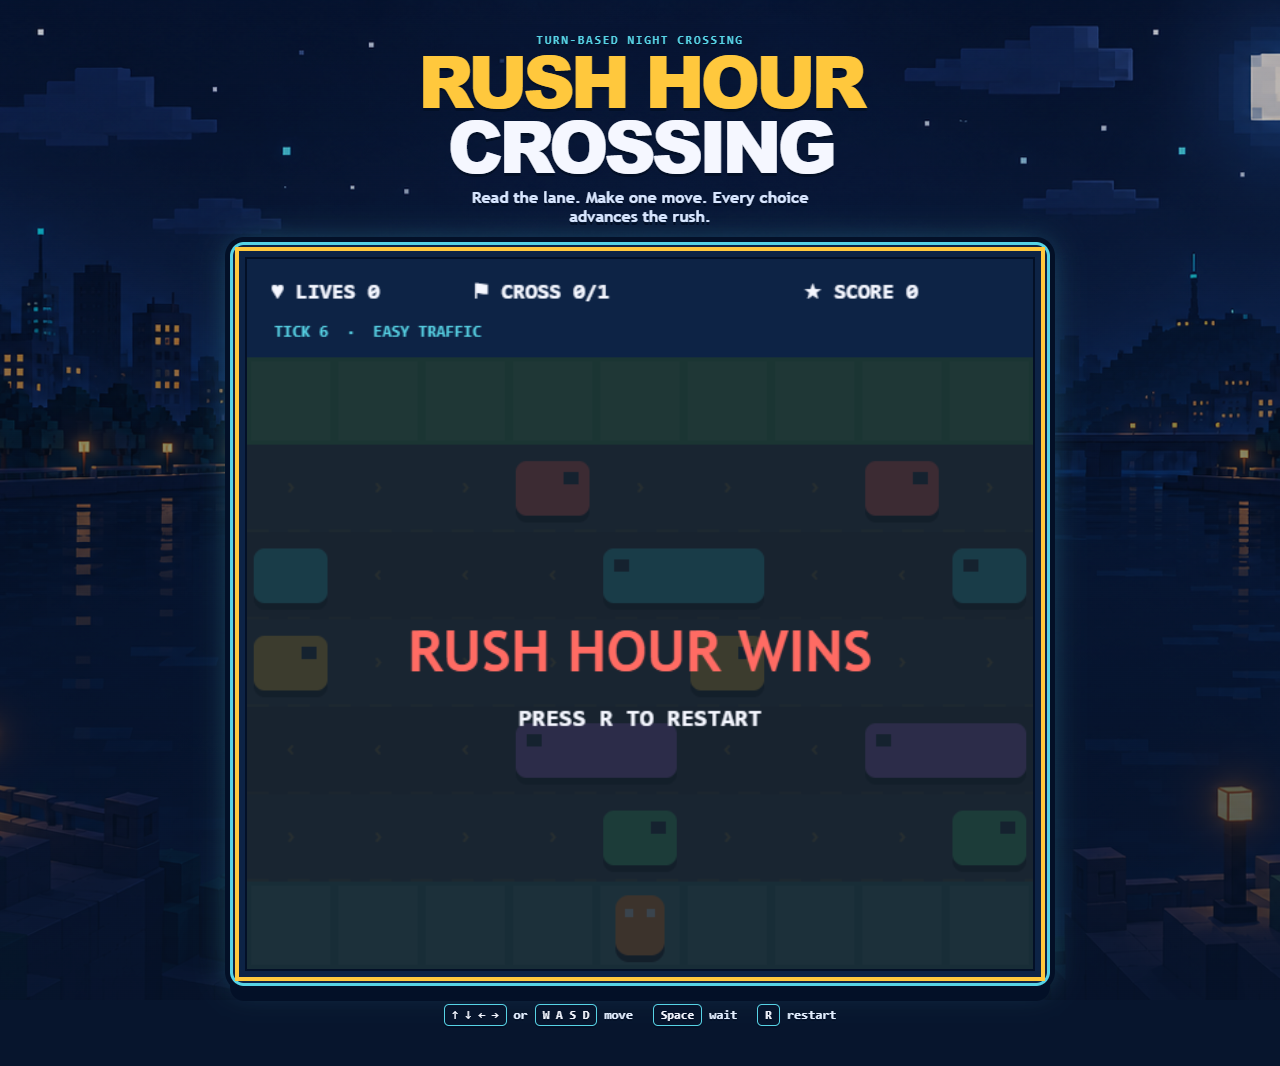
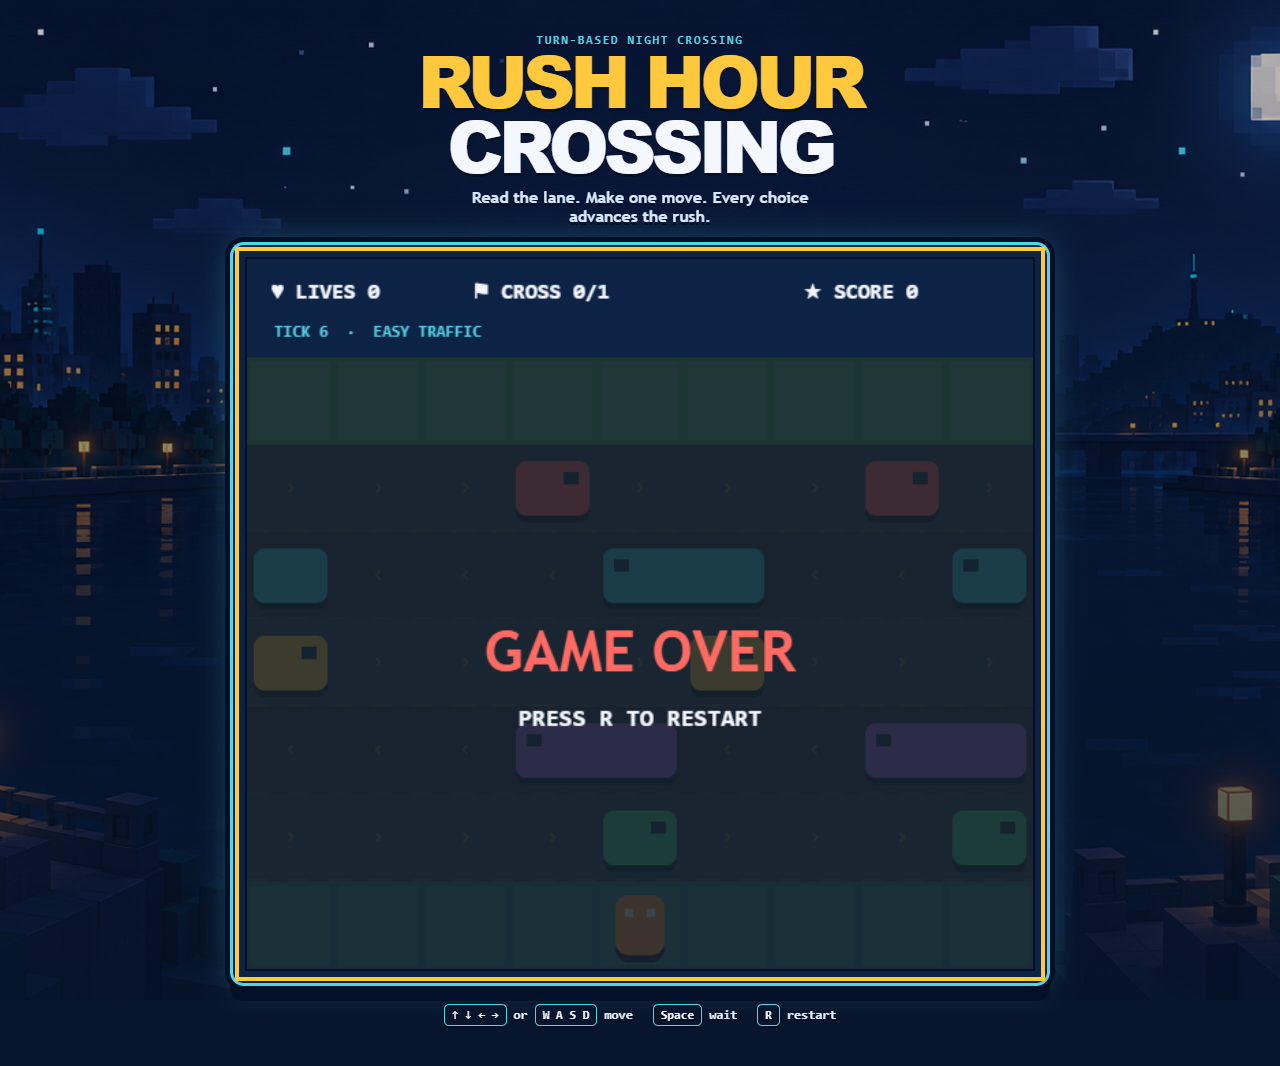
fix: show GAME OVER on loss and test end-state messages
The loss overlay read "RUSH HOUR WINS", contradicting the lost status. Move
the overlay text into a Canvas-free getEndStateMessage(status) covered by
tests, so the visible message is checked against the status. Re-capture the
loss screenshot and record the correction.

Changed region(s): [[0.3125, 0.5882, 0.6875, 0.6501]]

diff --git a/src/render/canvas.ts b/src/render/canvas.ts
@@ -1,6 +1,7 @@
 import { GRID_COLUMNS, GRID_ROWS } from '../game/constants'
 import type { GameConfig, GameState, LaneDefinition } from '../game/state'
 import { getVehicleCells } from '../game/traffic'
+import { getEndStateMessage } from './end-message'
 
 export const CELL_SIZE = 64
 export const HUD_HEIGHT = 72
@@ -161,7 +162,8 @@ function drawPlayer(context: CanvasRenderingContext2D, state: GameState): void {
 }
 
 function drawEndState(context: CanvasRenderingContext2D, state: GameState): void {
-  if (state.status === 'active') {
+  const message = getEndStateMessage(state.status)
+  if (!message) {
     return
   }
 
@@ -171,10 +173,10 @@ function drawEndState(context: CanvasRenderingContext2D, state: GameState): void
   context.textAlign = 'center'
   context.textBaseline = 'middle'
   context.font = '800 42px Trebuchet MS, sans-serif'
-  context.fillText(state.status === 'won' ? 'CITY CROSSED!' : 'RUSH HOUR WINS', CANVAS_WIDTH / 2, 290)
+  context.fillText(message.title, CANVAS_WIDTH / 2, 290)
   context.fillStyle = COLORS.playerDetail
   context.font = '700 18px Consolas, monospace'
-  context.fillText('PRESS R TO RESTART', CANVAS_WIDTH / 2, 338)
+  context.fillText(message.hint, CANVAS_WIDTH / 2, 338)
   context.textAlign = 'start'
 }
 

diff --git a/tests/end-message.test.ts b/tests/end-message.test.ts
@@ -1,0 +1,22 @@
+import { describe, expect, it } from 'vitest'
+import { getEndStateMessage } from '../src/render/end-message'
+
+describe('end-state message', () => {
+  it('announces a win for the won status', () => {
+    expect(getEndStateMessage('won')).toEqual({
+      title: 'CITY CROSSED!',
+      hint: 'PRESS R TO RESTART',
+    })
+  })
+
+  it('announces game over for the lost status', () => {
+    expect(getEndStateMessage('lost')).toEqual({
+      title: 'GAME OVER',
+      hint: 'PRESS R TO RESTART',
+    })
+  })
+
+  it('shows no message while the game is active', () => {
+    expect(getEndStateMessage('active')).toBeNull()
+  })
+})

diff --git a/src/render/end-message.ts b/src/render/end-message.ts
@@ -1,0 +1,18 @@
+import type { GameStatus } from '../game/state'
+
+export interface EndStateMessage {
+  title: string
+  hint: string
+}
+
+const RESTART_HINT = 'PRESS R TO RESTART'
+
+export function getEndStateMessage(status: GameStatus): EndStateMessage | null {
+  if (status === 'won') {
+    return { title: 'CITY CROSSED!', hint: RESTART_HINT }
+  }
+  if (status === 'lost') {
+    return { title: 'GAME OVER', hint: RESTART_HINT }
+  }
+  return null
+}

diff --git a/docs/EVIDENCE_003.md b/docs/EVIDENCE_003.md
@@ -169,3 +169,22 @@ After the Session 003 review, the pair's GitHub `main` branch was fast-forwarded
 | [`evidence/d6-loss.png`](evidence/d6-loss.png) | `?crossingsToWin=1&difficulty=easy`, `W W D W W W` | `lost`, 0 lives, 0/1, tick 6; restart hint visible |
 
 The console showed no errors at startup.
+
+## Post-review corrections — 2026-09-23
+
+The second review (score 8/10) listed five corrections. Each is recorded below with its actual result.
+
+### Loss message contradicted the lost status
+
+**Problem:** The loss overlay showed `RUSH HOUR WINS`, which reads like a win and contradicts the `lost` status. The text had been present since the baseline (`8091482`). Existing tests checked the status only, and browser checks read the accessible description, so no check covered the visible overlay text.
+
+**Change:** A test was written first. `tests/end-message.test.ts` failed because `src/render/end-message.ts` did not exist. The overlay text now comes from a pure, Canvas-free `getEndStateMessage(status)`: `won` gives `CITY CROSSED!`, `lost` gives `GAME OVER`, `active` gives no message, and both end states include `PRESS R TO RESTART`. `src/render/canvas.ts` only draws what that function returns. Game rules, configuration, presets, and evals are unchanged.
+
+| Check | Result |
+|---|---|
+| New test before the module existed | FAIL — module not found (expected) |
+| `npm run typecheck` | PASS |
+| `npm run test:run` | PASS — seven files, 43 tests |
+| `npm run build` | PASS |
+| [`evidence/d6-loss.png`](evidence/d6-loss.png) re-captured | `lost`, 0 lives, tick 6; overlay reads `GAME OVER` and `PRESS R TO RESTART` |
+| [`evidence/d6-win.png`](evidence/d6-win.png), [`evidence/d5-invalid-config.png`](evidence/d5-invalid-config.png) re-captured | Unchanged states: `won` with `CITY CROSSED!`; invalid-field alert with defaults |

diff --git a/docs/GAME_SPEC.md b/docs/GAME_SPEC.md
@@ -132,7 +132,7 @@ TypeScript/JavaScript browser aplikacija na postojećem starteru, HTML/CSS/Canva
 - [x] **D5** Validacija konfiguracije prihvata validne primere i odbija svih 5 nevalidnih primera iznad uz listu grešaka; pri nevalidnom ulazu igra koristi default i prikazuje poruku (test + screenshot).
   - Dokaz: `tests/config.test.ts` (validan primer, svih 5 nevalidnih primera, kombinovani nevalidan upit); screenshot `docs/evidence/d5-invalid-config.png`, opisan u `EVIDENCE_003.md` → *Saved screenshots and restart-hint fix*.
 - [x] **D6** Pobeda i poraz su dostižni odigravanjem (screenshot ili zapis).
-  - Dokaz: screenshotovi `docs/evidence/d6-win.png` (šest `W` → `won`) i `docs/evidence/d6-loss.png` (`W, W, D, W, W, W` → `lost`), sa `crossingsToWin=1&difficulty=easy`; testovi `tests/turn.test.ts` i `tests/reachability.test.ts`.
+  - Dokaz: screenshotovi `docs/evidence/d6-win.png` (šest `W` → `won`, „CITY CROSSED!“) i `docs/evidence/d6-loss.png` (`W, W, D, W, W, W` → `lost`, „GAME OVER“), sa `crossingsToWin=1&difficulty=easy`; testovi `tests/turn.test.ts`, `tests/reachability.test.ts` i `tests/end-message.test.ts` (tekst poruke odgovara statusu).
 - [x] **D7** `EVALS.md` ima najmanje 4 slučaja sa očekivanjem upisanim pre pokretanja.
   - Dokaz: `EVALS.md` E1–E4 (tipičan, granični, nevalidan, regresioni); E1–E3 upisani pre implementacije u commitu `3221951`.
 - [x] **D8** Ništa iz OUT OF SCOPE nije dodato i u repou nema tajni.

diff --git a/docs/AI_USAGE_LOG.md b/docs/AI_USAGE_LOG.md
@@ -24,3 +24,9 @@
 - **Result**: Capturing the win/loss screenshots exposed an invisible `PRESS R TO RESTART` hint (a redesign colour regression, 1.00–1.40:1 contrast).
 - **Decision recorded**: The student approved a single-line colour fix in `src/render/canvas.ts`, followed by repeated checks and new screenshots. No rule, config, or eval change.
 - **Verification signal**: Typecheck, 40/40 tests, and build pass; the restart hint measures 10.45–14.87:1; screenshots are in `docs/evidence/` and referenced in `EVIDENCE_003.md`.
+
+# Second review corrections — 2026-09-23
+
+- **Why AI was involved**: Plan and apply the five corrections from the second review, one commit per correction, directly on `main` as the student decided.
+- **Decisions recorded**: The student chose `GAME OVER` as the loss text, the status `Accepted — visual addendum` for both feature specifications, the addition of a root `AGENTS.md`, and direct commits to `main`.
+- **Verification signal**: The end-message test fails before implementation and passes after; typecheck, all tests, and build pass; the loss screenshot shows `GAME OVER`; the audit is re-run and recorded with its date.
